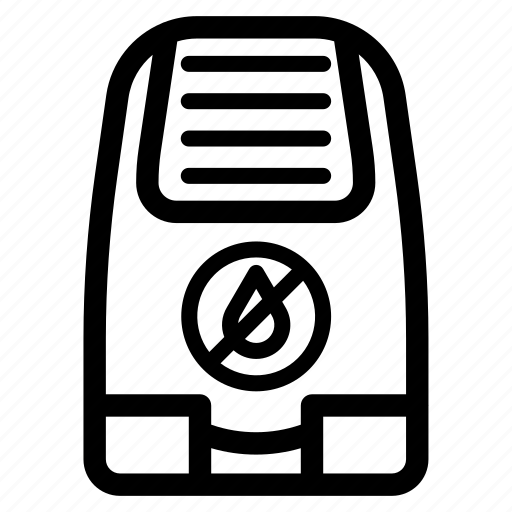
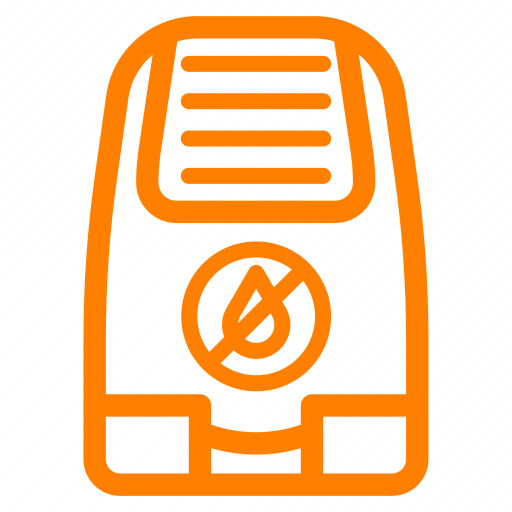
Implemented toggle functionality + ui interaction; implemented climate simulator + device behavior

Changed region(s): [[0.1562, 0.0312, 0.8438, 0.9688]]

diff --git a/home_simulator/webapp/static/css/style.css b/home_simulator/webapp/static/css/style.css
@@ -44,14 +44,14 @@ div.control {
     width: 4.5%;
     height: 6.5%;
     background-color: black;
-    border: 0.3em solid orange;
+    border: 0.2em solid #ff8800;
     border-radius: 50%;
     /* transition: transform 0.3s ease, background-color 0.3s ease, border-color 0.3s ease; */
     box-shadow: 0px 0px 6px rgba(0, 0, 0, 0.3);
 }
 
 div.control.activated {
-    background-color: orange;
+    background-color: #ff8800;
     border-color: black;
 }
 
@@ -60,7 +60,7 @@ div.control.cog {
 }
 
 div.control.light {
-    background-image: url('../images/devices/light.svg');
+    background-image: url('../images/devices/light.png');
 }
 
 div.control.humidifier {
@@ -73,16 +73,17 @@ div.control.dehumidifier {
 
 
 div.control.heater {
-    background-image: url('../images/devices/heater.svg');
+    background-image: url('../images/devices/heater.png');
     background-size: 83%;
 }
 
 div.control.tv {
-    background-image: url('../images/devices/tv.svg');
+    background-image: url('../images/devices/tv.png');
+    background-size: 80%;
 }
 
 div.control.curtains {
-    background-image: url('../images/devices/curtains.svg');
+    background-image: url('../images/devices/curtains.png');
 }
 
 div.control.massage_seat {
@@ -90,7 +91,7 @@ div.control.massage_seat {
 }
 
 div.control.ac {
-    background-image: url('../images/devices/ac.svg');
+    background-image: url('../images/devices/ac.png');
     background-size: 80%;
 }
 

diff --git a/home_simulator/webapp/static/js/script.js b/home_simulator/webapp/static/js/script.js
@@ -26,12 +26,16 @@ function updateRoom() {
                         control.style.top = device.ui.y + "%";
                         control.id = "control_" + prop;
 
+                        control.addEventListener("click", function() {
+                            fetch(`/device/${prop}/toggle`, { method: "GET" });
+                        });
+
                         room.appendChild(control);
                     } else if (device.type === "sensor") {
                         let sensor = document.createElement("tr");
                         sensor.className = "sensor";
                         sensor.id = "sensor_" + prop;
-                        sensor.innerHTML = "<td>" + prop + "</td><td>" + device.data.value + "</td><td>" + device.data.unit + "</td>";
+                        sensor.innerHTML = `<td>${prop}</td><td>${Number(device.data.value).toFixed(2)}</td><td>${device.data.unit}</td>`;
                         sensorsTable.appendChild(sensor);
                     }
                 }
@@ -48,6 +52,6 @@ function updateRoom() {
 document.addEventListener("DOMContentLoaded", function() {
     
     updateRoom();
-    setInterval(updateRoom, 2000);
+    setInterval(updateRoom, 1000);
 
 });

diff --git a/home_simulator/webapp/static/css/popup.css b/home_simulator/webapp/static/css/popup.css
@@ -2,7 +2,7 @@
     position: absolute;
     top: 48em;
     left: 70em;
-    border: 0.3em solid orange;
+    border: 0.3em solid #ff8800;
     background-color: black;
     box-shadow: 0 0 8px rgba(0, 0, 0, 0.2);
     border-radius:5%;
@@ -11,7 +11,7 @@
 
 .popup-header {
     padding: 10px;
-    background-color: orange;
+    background-color: #ff8800;
     cursor: move;
     display: flex;
     justify-content: space-between;
@@ -25,18 +25,18 @@
 .popup table {
     width: 100%;
     border-collapse: collapse;
-    color: orange;
+    color: #ff8800;
     background-color: black;
 }
 
 .popup table th, .popup table td {
-    border: 1px solid orange;
+    border: 1px solid #ff8800;
     padding: 8px;
     text-align: left;
 }
 
 .popup table th {
-    background-color: orange;
+    background-color: #ff8800;
     color: black;
     font-weight: bold;
 }

diff --git a/home_simulator/webapp/routes.py b/home_simulator/webapp/routes.py
@@ -1,11 +1,16 @@
 from webapp import flaskApp
 from flask import jsonify, request, render_template
+import threading
+import time
+import random
+
+CLIMATE_CHANGE_STEP_THRESHOLD=30
 
 # In-memory store for devices
 devices = {
     "heater": {
         "type": "control", 
-        "activated": True,
+        "activated": False,
         "effect": {
             "temperature_sensor":{
                 "value": 0.1,
@@ -117,7 +122,7 @@ devices = {
     },
     "air_conditioner": {
         "type": "control", 
-        "activated": True,
+        "activated": False,
         "effect": {
             "temperature_sensor":{
                 "value": -0.2,
@@ -167,6 +172,11 @@ devices = {
     }
 }
 
+steps_counter = 0
+climate_temp_variation = 0
+climate_light_variation = 0
+climate_humidity_variation = 0
+
 @flaskApp.route("/", methods=["GET"])
 def get_homepage():
     return render_template("home.html")
@@ -180,11 +190,72 @@ def get_device(device_id):
     device = devices.get(device_id)
     return jsonify(device) if device else (jsonify({"error": "Device not found"}), 404)
 
-@flaskApp.route("/device/<device_id>/set", methods=["POST"])
-def set_device(device_id):
+@flaskApp.route("/device/<device_id>/turn-on", methods=["GET"])
+def turn_on_device(device_id):
     if device_id not in devices:
         return jsonify({"error": "Device not found"}), 404
 
-    update_data = request.json
-    devices[device_id].update(update_data)
-    return jsonify({"message": "Device updated", "device": devices[device_id]})
+    devices[device_id]["activated"] = True
+    return jsonify({"message": "Device turned on", "device": devices[device_id]})
+
+@flaskApp.route("/device/<device_id>/turn-off", methods=["GET"])
+def turn_off_device(device_id):
+    if device_id not in devices:
+        return jsonify({"error": "Device not found"}), 404
+
+    devices[device_id]["activated"] = False
+    return jsonify({"message": "Device turned off", "device": devices[device_id]})
+
+@flaskApp.route("/device/<device_id>/toggle", methods=["GET"])
+def toggle_device(device_id):
+    if device_id not in devices:
+        return jsonify({"error": "Device not found"}), 404
+
+    current_state = devices[device_id].get("activated")
+    if current_state is None:
+        return jsonify({"error": "Device cannot be toggled"}), 400
+
+    devices[device_id]["activated"] = not current_state
+    return jsonify({"message": "Device toggled", "device": devices[device_id]})
+
+def update_sensors():
+    global climate_temp_variation, climate_light_variation, climate_humidity_variation, steps_counter
+
+    while True:
+        # Temperature sensor update
+        temp = devices["temperature_sensor"]["data"]["value"] + climate_temp_variation
+        for device_id, device in devices.items():
+            if device.get("activated") and "temperature_sensor" in device.get("effect", {}):
+                effect = device["effect"]["temperature_sensor"]
+                temp += effect["value"]
+        devices["temperature_sensor"]["data"]["value"] = round(temp, 2)
+
+        # Humidity sensor update
+        humidity = devices["humidity_sensor"]["data"]["value"] + climate_humidity_variation
+        for device_id, device in devices.items():
+            if device.get("activated") and "humidity_sensor" in device.get("effect", {}):
+                effect = device["effect"]["humidity_sensor"]
+                humidity += effect["value"]
+        devices["humidity_sensor"]["data"]["value"] = round(humidity, 2)
+
+        light = climate_light_variation
+        for device_id, device in devices.items():
+            if device.get("activated") and "light_sensor" in device.get("effect", {}):
+                effect = device["effect"]["light_sensor"]
+                light += effect["value"]
+        devices["light_sensor"]["data"]["value"] = max(0,round(light, 2))
+
+        time.sleep(1)
+
+        steps_counter += 1
+
+        if steps_counter % CLIMATE_CHANGE_STEP_THRESHOLD == 0:
+            steps_counter = 0
+
+            climate_temp_variation = random.uniform(-0.2, 0.2)
+            climate_light_variation = random.uniform(0, 100)
+            climate_humidity_variation = random.uniform(-0.2, 0.2)
+
+
+sensor_thread = threading.Thread(target=update_sensors, daemon=True)
+sensor_thread.start()
